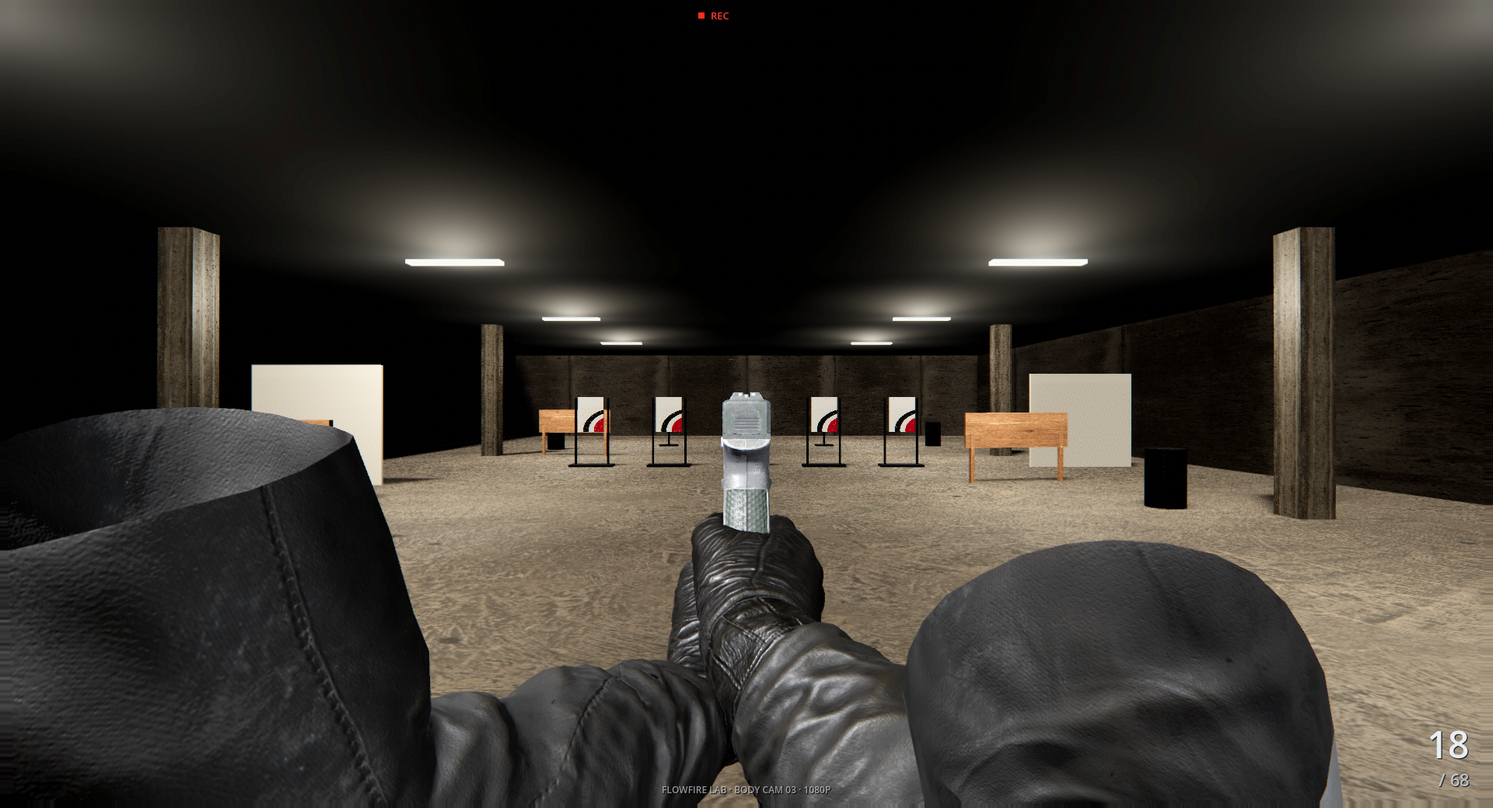
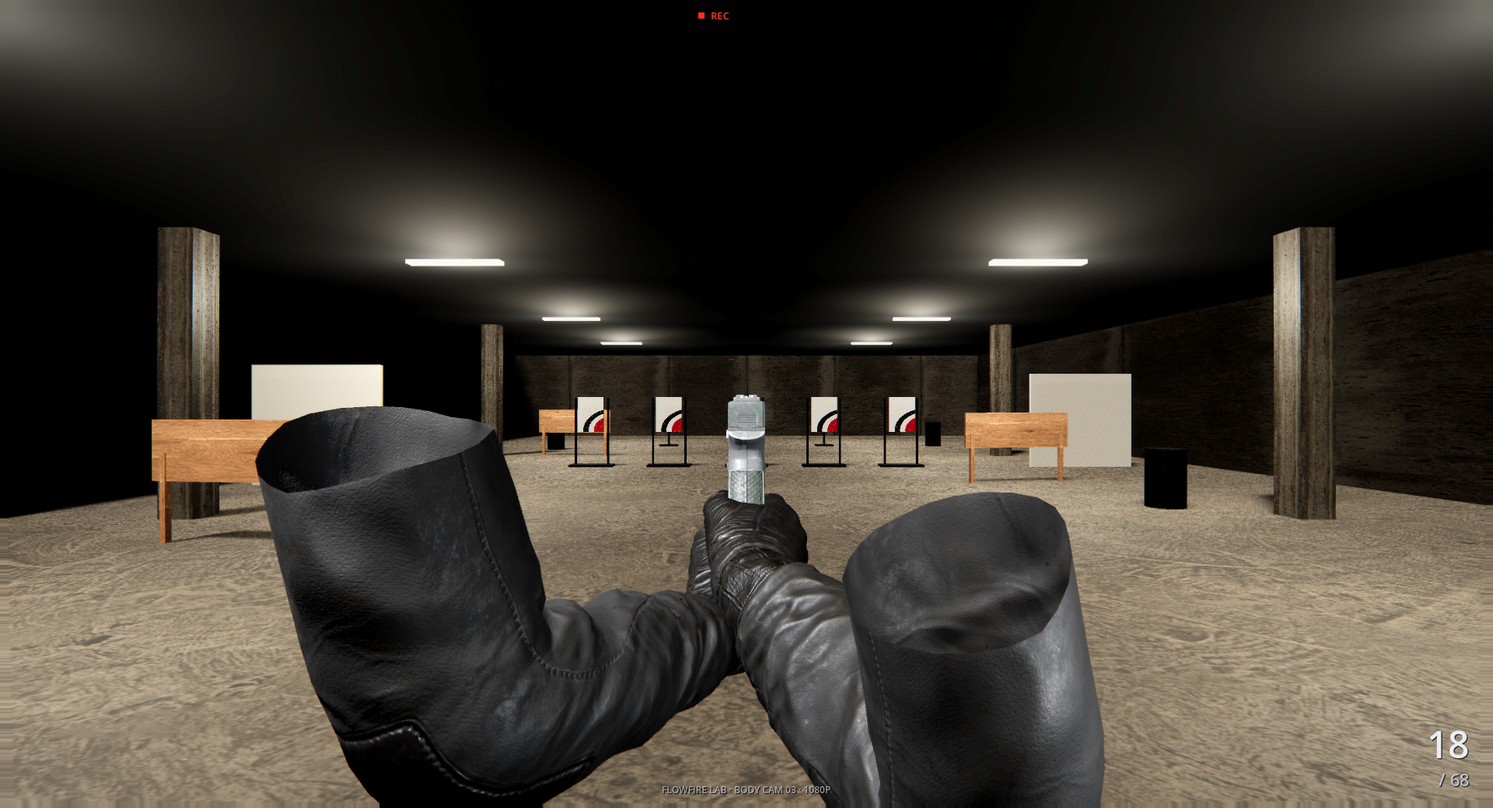
DOCS: encuadre ADS medido, licencia NC de los brazos y causa del doble disparo
README:
- El apartado "Limitacion conocida del viewmodel" pasa a "Encuadre del viewmodel
  en ADS" con lo medido: la causa era la distancia ojo->alza (0,42 m), la tabla
  del barrido, y el hecho de que las masas de las esquinas son las cadenas de
  ANTEBRAZO (BoneTwist_01.R_013, 550 verts) y no los hombros, como decia el
  texto anterior. Se declaran las dos limitaciones que siguen: la cascara
  abierta del antebrazo (20 bucles de frontera) y la manga corta en proporcion
  al arma.
- Se sustituye la hipotesis de "bajar la camara 12 cm" por el barrido medido.
- Se documenta que la malla de brazos es NC y bloquea el lanzamiento comercial.
- Rendimiento actualizado a la medicion del HEAD (25.11 fps avg, viewmodel 2.03
  ms de los que los brazos son 0.49 ms) y se avisa de que en esta maquina la
  dispersion no permite comparar decimas.
- La seccion de assets anade la regla que hacia falta: una etiqueta CC-BY no
  basta en primera persona, hay que remontar la licencia de la malla original.

CREDITS_MODELS: el asset de brazos pasa a "NO UTILIZABLE EN PRODUCTO
COMERCIAL" con la prueba (la descripcion del propio pack cita @bumstrum y
FP Arms es CC-BY-NC con el mismo recuento de caras). Se anaden los 3
candidatos de reemplazo verificados con su cadena de licencia completa hasta
la malla original (1Matzh 9mm, 1Matzh Desert Eagle, DJMaesen heavy pistol) y
se explica el bloqueo real: sin cuenta de Sketchfab no se puede descargar ni
[…]

Changed region(s): [[0.0, 0.4923, 0.9062, 1.0]]

diff --git a/README.md b/README.md
@@ -67,15 +67,15 @@ No añadir por iniciativa propia: mundo abierto, campaña, vehículos, loot, cra
 Actualmente FlowFire es un vertical slice de combate y entrenamiento.
 
 - Glock 19 de alta fidelidad en `assets/models/owk19_pistol.glb` (OWK 19, OKgamedev, CC-BY 4.0): 11 568 tris en 9 piezas rígidas. Es la **única representación del arma**; no existe rig legacy ni fallback.
-- Brazos/manos y animaciones de pistola en `assets/models/fps_pistol_arms.glb` (Cransh): única fuente de pose humana. El cuerpo del arma cuelga de `PBody` y el cargador de `Pmag`. El GLB venía con `KHR_materials_pbrSpecularGlossiness`, que Godot no implementa: **su textura difusa se descartaba entera** y los brazos salían como geometría gris plana. Está convertido a metallic-roughness (receta reproducible en `CREDITS_MODELS.md`); ahora el guante, el normal y la rugosidad son los del autor y el código sólo tiñe el albedo. **Atribución pendiente de aclarar**: la malla parece ser "FP Arms" de bumstrum, que ese autor publica como CC-BY-NC; ver `CREDITS_MODELS.md` antes de un lanzamiento comercial.
+- Brazos/manos y animaciones de pistola en `assets/models/fps_pistol_arms.glb` (Cransh): única fuente de pose humana. El cuerpo del arma cuelga de `PBody` y el cargador de `Pmag`. El GLB venía con `KHR_materials_pbrSpecularGlossiness`, que Godot no implementa: **su textura difusa se descartaba entera** y los brazos salían como geometría gris plana. Está convertido a metallic-roughness (receta reproducible en `CREDITS_MODELS.md`); ahora el guante, el normal y la rugosidad son los del autor y el código sólo tiñe el albedo. **No es utilizable en un producto comercial**: la malla de brazos es `FP Arms` de bumstrum, que se publica como CC-BY-NC. Ver el apartado de licencia más abajo y `CREDITS_MODELS.md`.
 - Montaje de brazos con **escala uniforme derivada de geometría**, sin estiramientos anatómicos para ocultar hombros.
-- ADS resuelto desde la **mira trasera y delantera visibles de la OWK**; los marcadores geométricos son fuente y la pose es derivada, no al revés.
+- ADS resuelto desde la **mira trasera y delantera visibles de la OWK**; los marcadores geométricos son fuente y la pose es derivada, no al revés. La distancia ojo → alza (0,54 m) se eligió midiendo el encuadre: ver "Encuadre del viewmodel en ADS".
 - Sin crosshair ni hitmarker visual: se apunta con las miras reales del arma.
 - Corredera, gatillo, cargador, recarga, expulsión de casquillo y recamarado gobernados por el estado mecánico.
 - Balística con gravedad, arrastre, subpasos, penetración, rebotes y daño por zona. **La salida ya se calcula desde la geometría real del volumen**, no desde metadata de grosor: se resuelve el intervalo de intersección de los tres *slabs* de cada `BoxShape3D` del collider y la cara lejana es la salida. Limitación concreta y deliberada: **`_find_exit_geometry()` sólo entiende `BoxShape3D`**; con cualquier otra forma no hay salida demostrable y el proyectil se detiene. Es suficiente para el rango actual (paneles y muros son cajas) y no se generaliza hasta que exista un caso real.
 - Jolt para jugador, blancos y casquillos.
 - Cámara bodycam con sway/bob/breathing/recoil y post-proceso sin blur deliberado.
-- Audio con buses `Weapons` / `World`, compresión por bus y techo de seguridad en Master. Los 5 disparos son tomas reales de Glock 18c (Sonniss GDC 2016, royalty-free comercial); la foley es CC0. Todos los WAV se alinean a su ataque real con `tools/process_audio.sh`: **los 15 archivos atacan dentro de los primeros 2 ms**, así que ningún evento suena tarde.
+- Audio con buses `Weapons` / `World` y techo de seguridad en Master. **Sin compresores de bus**: se midió que no protegían nada y que su release devolvía ganancia durante la cola del disparo. Los 5 disparos son tomas reales de Glock 18c (Sonniss GDC 2016, royalty-free comercial) y **se cortan de la grabación original en su ataque medido**, con la cola acotada al hueco real hasta el disparo siguiente (`tools/process_audio.sh`, tabla `SHOT_CUTS`); la grabación original se versiona en `assets/audio/source/`. La foley es CC0. Todos los WAV se alinean a su ataque real con el mismo script: **los 15 archivos atacan dentro de los primeros 2 ms**.
 - Materiales PBR reales para entorno y OWK 19.
 - Tests duros con exit code y un laboratorio separado de medición/diagnóstico.
 
@@ -93,22 +93,91 @@ Mientras el usuario no cambie la fase, el trabajo debe concentrarse en:
 - sustituir assets de primera persona cuando la propia geometría limite el realismo;
 - eliminar bugs, residuos, fallbacks y contradicciones.
 
-### Limitación conocida del viewmodel
+### Encuadre del viewmodel en ADS
 
-El encuadre de **ADS no puede evitar que los hombros entren en pantalla** con este rig, y no es un problema de ajuste: es geometría medida con `--armdiag`.
+El encuadre de ADS se corrigió midiendo, no ajustando a ojo, y la causa no era
+la que parecía.
 
-- En ADS el alza trasera queda a 0,42 m del ojo, y el hombro cae **21,6 cm por delante de la cámara y a la altura del ojo** (`UpArm_L depth=0.216 up=-0.006`).
-- El hombro está sólo **20,4 cm por detrás del alza** en el eje de visión. Un tirador real tiene el hombro a 55-65 cm por detrás de la mira.
-- Como el hombro está rígidamente unido al arma en el rig, **ninguna traslación ni rotación del conjunto puede bajarlo**: la única traslación libre es la profundidad, y para que el hombro saliera del encuadre el alza tendría que estar a ~0,20 m del ojo (el arma pegada a la cara).
-- La escala de los brazos (0,669) se deriva de la empuñadura y **no se toca**: subirla haría que la mano no envolviera la empuñadura real de la OWK.
+**Lo que estaba mal.** En ADS se veían dos masas negras enormes a los lados que
+se comían la pantalla. Medido con la métrica `SILUETA` de `--armdiag`, los
+brazos ocupaban **41,2% del encuadre y 70,9% de las bandas laterales
+inferiores**, contra 0,9% del arma.
 
-Medido con la métrica `SILUETA` de `--armdiag`: los brazos ocupan **41% del encuadre en ADS** (71% de las bandas laterales inferiores) contra 17% en hip. El arma, 0,9%.
+**Qué son esas masas.** No son los hombros. El análisis de la malla (skinning
+conforme al glTF, peso dominante por vértice) sitúa en las esquinas inferiores
+las **cadenas de antebrazo**, en concreto sus huesos de torsión:
+`BoneTwist_01.R_013` (550 vértices, la región más grande de toda la malla) y
+`BoneTwist_02.R_012` hacia la derecha, `BoneTwist_01.L_07` y `BoneTwist_02.L_06`
+hacia la izquierda. Los huesos llamados `Forearm_L/R` sólo llevan ~180 vértices
+(el codo); el bulto del antebrazo **no** está en el hueso que su nombre sugiere.
 
-Lo que **sí** se corrigió en esta pasada es que esas masas se lean como brazos: la difusa real del autor las convierte en guantes de cuero con costuras y nudillos en vez de cilindros negros.
+**Cuál era la causa real.** La distancia ojo → mira trasera estaba en **0,42 m**.
+Con el arma tan pegada a la cara, toda la geometría entre la mano y el hombro
+queda a ~0,2 m de la cámara y su tamaño angular se dispara. Al alejar el ojo del
+alza, esa masa se aleja *más* que las manos (que ya estaban lejos), así que el
+reparto arma/brazos se corrige solo. Barrido medido:
 
-La palanca que queda, si se quiere el encuadre de la referencia bodycam, es **bajar la cámara ~12 cm** (1,62 → 1,50 m), que es donde va montada una bodycam real: con eso el hombro cae por debajo del borde inferior. No se ha hecho porque cambia el nivel de ojos del jugador y el usuario lo excluyó explícitamente en esta tarea.
+| ojo → alza | brazos | bandas laterales inferiores |
+|---|---|---|
+| 0,42 m (antes) | 41,2% | 70,9% |
+| 0,48 m | 34,8% | 57,2% |
+| 0,52 m | 30,9% | 45,5% |
+| **0,54 m (actual)** | **28,8%** | **36,5%** |
+| 0,56 m | 26,5% | 29,2% |
+| 0,62 m | 20,4% | 13,9% |
 
-No ampliar el juego para “aprovechar” que una tarea terminó pronto.
+Se para en 0,54 m y no en 0,62 m porque a partir de ahí el alza trasera (unos
+30 px) deja de leerse. El porcentaje del **arma** baja en la misma proporción
+(0,9% → 0,4%) porque mira al frente y se ve de canto: no es que el arma se aleje
+del centro, es que se acorta la profundidad. La mira sigue centrada (AIMTEST:
+0,2 mm, 0,35 mrad) y HIP no cambia (17,4% / 27,6%). La escala de los brazos
+(0,6694) sigue **derivada** de la empuñadura real de la OWK, con residuo 0,0 mm:
+no se estiró nada para compensar.
+
+Efecto secundario medido: el antebrazo izquierdo pasa de quedar **fuera** del
+encuadre a quedar **dentro** con 147 px de margen, así que la pose también se
+lee mejor que antes.
+
+**Lo que sigue limitado, y no se disimula.** El encuadre ya no lo domina el
+brazo, pero la geometría del asset sigue teniendo dos defectos reales que no se
+arreglan con encuadre:
+
+1. Los antebrazos son una **cáscara abierta**: medido en Blender, la malla tiene
+   20 bucles de frontera (1 502 aristas sin cara). En ADS se mira el extremo del
+   antebrazo de canto y se ve el corte, no un brazo cerrado.
+2. La manga es **corta en proporción al arma**: el tramo hombro→mano mide ~24 cm
+   escalado, cuando un tirador real tiene el hombro a 45-55 cm de la empuñadura.
+   Por eso, por mucho que se aleje el ojo, el hombro siempre entra en pantalla si
+   se quiere que el arma domine. Es geometría, no ajuste.
+
+Los dos se resolverían sustituyendo la malla. Lo que lo bloquea no es criterio
+artístico sino **licencia** (ver siguiente apartado) y que no hay forma de
+descargar los candidatos limpios desde este entorno. Un intento de reescribir el
+GLB en Blender para tapar los agujeros rompió el rig (la silueta cayó a 0,0% y
+6 071 vértices acabaron detrás de la cámara): el round-trip de Blender no
+conserva bien este asset, así que esa vía queda descartada con evidencia, no por
+suposición.
+
+### Licencia de los brazos: pendiente de sustituir
+
+**La malla de brazos en uso no es utilizable en un producto comercial.** No es
+una sospecha: está en la propia descripción del asset que el proyecto usa.
+
+- `assets/models/fps_pistol_arms.glb` se declara **CC-BY 4.0** (Cransh), pero la
+  descripción de esa misma página dice literalmente *"Hands - FP Arms by
+  @bumstrum"*.
+- `FP Arms` de bumstrum/DJMaesen
+  (https://sketchfab.com/3d-models/8416c380544949bb9b224278819cbe6b) es
+  **CC Attribution-NonCommercial** (`by-nc/4.0`, "No commercial use"), y su
+  recuento de caras (14 852) coincide con la malla de brazos de este GLB.
+- Una licencia CC-BY concedida sobre un derivado **no puede sustituir** la
+  licencia del original. Cransh relicencia como CC-BY algo que aguas arriba es
+  NC (lo hace en varios de sus packs, no sólo en éste).
+
+FlowFire será comercial, así que **NC no es aceptable**. El reemplazo está
+investigado y verificado (ver `CREDITS_MODELS.md`), pero no se ha integrado.
+
+No ampliar el juego para "aprovechar" que una tarea terminó pronto.
 
 ---
 
@@ -131,11 +200,11 @@ Estado en el HEAD actual (`--fpsbench --fpsreps=3 --fpsduration=6`, 3 corridas):
 
 | | fps avg | p1 | frametime avg | p95 | max |
 |---|---|---|---|---|---|
-| baseline completo | 26.06 | 22.32 | 38.37 ms | 44.81 ms | 48.09 ms |
+| baseline completo | 25.11 | 21.23 | 39.83 ms | 47.09 ms | 92.81 ms |
 
-**Coste del viewmodel, medido por diferencia** (misma escena y cámara): ocultar el viewmodel entero ahorra **1.48 ms/frame** (4%); de eso, los brazos son **0.56 ms** y la OWK rígida ~0.05 ms, que está dentro del ruido. Los brazos cuestan poco más que antes aunque ahora lleven sus 4 texturas reales (albedo, normal, oclusión y metallic-roughness): el trabajo sigue siendo skinning, no muestreo de textura.
+**Coste del viewmodel, medido por diferencia** (misma escena y cámara): ocultar el viewmodel entero ahorra **2.03 ms/frame** (5,4%); de eso, los brazos son **0.49 ms** y la OWK rígida está dentro del ruido (ocultar sólo el arma *sube* el frametime medio, es decir, no se puede separar de la varianza). Los brazos cuestan poco más que antes aunque ahora lleven sus 4 texturas reales (albedo, normal, oclusión y metallic-roughness): el trabajo sigue siendo skinning, no muestreo de textura. Nada de esto cambió con el retrabajo de audio, que no toca el render.
 
-Antes de cerrar una fase de rendimiento, repetir el perfil completo sobre el HEAD actual. La referencia de ~27 FPS de pasadas anteriores y estos 26.06 FPS no son una regresión: son la misma medida con distinto número de repeticiones en una máquina de 4 núcleos, y el orden de magnitud se mantiene. **Lo que sí es firme es el coste marginal del viewmodel, que es lo que esta pasada podía mover.**
+Antes de cerrar una fase de rendimiento, repetir el perfil completo sobre el HEAD actual. En esta máquina de 4 núcleos y GPU integrada la dispersión es grande (`fps_min` oscila entre 9 y 19 entre variantes que deberían medir casi igual), así que **el promedio de 3 corridas sirve para detectar regresiones grandes, no para comparar décimas**. Lo que sí es firme es el coste marginal del viewmodel, que es lo que estas pasadas podían mover.
 
 ### Autoridades existentes
 
@@ -268,12 +337,14 @@ Antes de controles táctiles, migrar entrada a acciones reutilizables. **No dupl
 ## 6. Assets y licencias
 
 - **Arma:** `assets/models/owk19_pistol.glb` — “OWK 19 Pistol 9mm (G19)” de OKgamedev, CC-BY 4.0. Única representación del arma.
-- **Brazos y animaciones:** `assets/models/fps_pistol_arms.glb` — “FPS pistol animations” de Cransh, CC-BY 4.0. Única fuente de pose humana.
-- **Audio:** Freesound CC0, procesado con `tools/process_audio.sh`.
+- **Brazos y animaciones:** `assets/models/fps_pistol_arms.glb` — “FPS pistol animations” de Cransh, CC-BY 4.0 **en la etiqueta**, pero la malla de brazos es `FP Arms` de bumstrum (CC-BY-**NC**). **Bloquea el lanzamiento comercial**; candidatos de reemplazo ya verificados en `CREDITS_MODELS.md`.
+- **Audio:** disparos de Sonniss #GameAudioGDC (royalty-free comercial, sin atribución obligatoria) y foley CC0 de Freesound. Todo procesado con `tools/process_audio.sh`.
 - **Texturas PBR:** Poly Haven CC0.
 - **Código y contenido original de FlowFire:** propietario; los recursos de terceros conservan sus licencias. Ver `LICENSE` y `CREDITS_*.md`.
 
 Nunca sustituir un asset bueno sólo por novedad. Cambiarlo únicamente si mejora de forma visible/medible el resultado o resuelve una limitación real.
+
+**Una etiqueta CC-BY no basta para los assets de primera persona.** El campo de los packs de brazos FPS en Sketchfab está lleno de derivados de `FP Arms` (bumstrum, CC-BY-NC) reetiquetados como CC-BY por quien los sube. Antes de integrar uno hay que leer la descripción buscando `@bumstrum` / `fp-arms` **y** remontar la licencia de la malla original, no sólo la del pack.
 
 Los assets de **primera persona** tienen un estándar más alto que el decorado: arma, manos, brazos, cargador y casquillo ocupan gran parte de la pantalla y no pueden delatar geometría pobre si el objetivo visual es realista. Si un asset limita la silueta/anatomía, se sustituye; no se deforma brutalmente ni se esconde con shaders.
 

diff --git a/CREDITS_AUDIO.md b/CREDITS_AUDIO.md
@@ -2,43 +2,93 @@
 
 Sonidos reales procesados con `tools/process_audio.sh` (ffmpeg): cada one-shot se alinea con su ataque, se iguala la loudness dentro de cada familia y se recorta la cola con fade.
 
-**Alineación al ataque (corregida).** El modo antiguo del script comparaba
-bloques de 20 ms de RMS contra el bloque más fuerte con 12 dB de margen. Un
-ruido de sala 30 dB por debajo del golpe no lo activaba, así que el archivo se
-dejaba intacto y **el evento sonaba tarde**. Medido sobre los WAV que había:
+## El disparo sonaba dos veces: causa medida (corregido)
+
+El disparo base gustaba, pero se percibía un segundo golpe inmediatamente después.
+La causa **no** era la capa mecánica sintética, sino las propias muestras.
+
+**Los `shot_N.wav` anteriores eran ventanas de 700 ms cortadas a mano de la misma
+rafaga**, y su "ataque" (el pico de muestra, que es lo que medía el script) no
+coincidía con el ataque acústico. Medido con la envolvente RMS de 2 ms:
+
+| archivo | ataque real | muestras recortadas al ras | duración |
+|---|---|---|---|
+| `shot_1.wav` | 22 ms | 15 | 700 ms |
+| `shot_2.wav` | **432 ms** | 7 | 700 ms |
+| `shot_3.wav` | 228 ms | 11 | 700 ms |
+| `shot_4.wav` | 156 ms | 4 | 700 ms |
+| `shot_5.wav` | 90 ms | 2 | 700 ms |
+
+Es decir: el juego reproducía entre 22 y 432 ms de material que **no** era el
+estampido antes de que llegara el estampido. En `shot_2.wav` el oyente oía
+ruido de manejo durante casi medio segundo y luego el disparo.
+
+Además, la grabación original declara **6 disparos** y sus ataques medidos están
+en `0.1190 / 0.3410 / 0.7800 / 0.9860 / 1.1640 / 1.3470 s` — intervalos de
+178-222 ms, o sea una **rafaga real de Glock 18c a 1100-1360 RPM**. Las ventanas
+de 700 ms metían el disparo **vecino** dentro de la muestra, así que un clic del
+jugador disparaba dos disparos grabados.
+
+**Corrección.** Los 5 disparos se cortan ahora de la grabación original en su
+ataque medido, con la cola acotada al hueco real hasta el disparo siguiente menos
+35 ms de margen (tabla `SHOT_CUTS` de `tools/process_audio.sh`). Verificado: los
+5 ataques caen en **0-2 ms**, **0 muestras recortadas** y **0 material previo** al
+estampido. La grabación original se versiona en
+`assets/audio/source/sonniss_gdc2016_glock18c_1m.wav` (md5
+`692d47763d6af32ee551312f24868b38`) para que el corte sea reproducible.
+
+**La capa mecánica también competía, y se bajó.** `slide.wav` es un chasquido con
+el **63% de su energía entre 2,5 y 16 kHz**, mientras que el estampido la tiene en
+800-2500 Hz. Entra a **12,7 ms** del disparo (el tope trasero real de la
+corredera, calculado del resorte de `Glock.gd`: k=4000, c=80, v0=5,45 m/s,
+recorrido 39 mm). Al mismo nivel que el disparo no se oía *debajo* del blast, se
+oía **al lado**. Medido en el mix, energía relativa en agudos de la ventana
+13-40 ms: 0,17 sin capa mecánica, **0,43 a -10 dB**, 0,22 a -20 dB. Ahora está en
+**-18 dB**, que aporta profundidad mecánica sin competir con el estampido.
+
+**Fuera los compresores de bus.** El de `Weapons` (thr -14 dB, 3:1) daba sólo
+**2,2 dB** de reducción en el ataque y **0** en las colas, así que no protegía
+nada; su release de 120 ms devolvía ganancia justo durante la cola del disparo,
+que es la clase de bombeo que hace que un solo disparo se perciba como dos. Con
+los WAV ya normalizados por familia, cada bus sólo lleva su nivel y Master queda
+con un techo de seguridad.
+
+**Alineación al ataque (del resto de la foley).** El modo antiguo comparaba
+bloques de 20 ms de RMS contra el bloque más fuerte con 12 dB de margen. Un ruido
+de sala 30 dB por debajo del golpe no lo activaba, así que el archivo se dejaba
+intacto y **el evento sonaba tarde**. Peor: el umbral se fijaba sobre el **pico de
+muestra**, así que un único sample alto o recortado al principio lo hundía y el
+detector no veía nada — el fallo exacto de `shot_2.wav`.
 
 | archivo | retraso del ataque antes | ahora |
 |---|---|---|
-| `impact_concrete.wav` | 54 ms | 2 ms |
-| `empty_b.wav` | 34 ms | 2 ms |
-| `shot_1.wav` / `shot_3.wav` | 16 ms | 1 ms |
-| `footstep.wav`, `impact_wood.wav` | 9 ms | 1 ms |
-| `ricochet.wav` | 3 ms | 1 ms |
-| `shot_2/4/5`, `slide`, `magin`, `shell_drop` | 0 ms | 0-1 ms |
+| `magin.wav` | 464 ms | 1 ms |
+| `slide.wav` | 10 ms | 0 ms |
+| `magout.wav` | 11 ms | 10 ms |
+| `impact_concrete.wav` | 91 ms | 91 ms |
+| `empty_b.wav` | 26 ms | 26 ms |
+| `footstep.wav`, `impact_wood.wav`, `ricochet.wav` | 9-10 ms | 9-10 ms |
+| `shot_1..5.wav` | 22-432 ms | **0-2 ms** |
 
-Que dos de cada cinco disparos salieran 16 ms tarde y los otros tres a 0 ms era
-el defecto más audible: la cadencia no sonaba uniforme. `slide.wav` se sigue
-alineando a su pico (su golpe bueno está a 0,4 s dentro del archivo original),
-no al primer sonido.
+(En los impactos y pasos el "ataque" medido es el primer instante dentro de 20 dB
+de la envolvente máxima, que en esas tomas es ruido de sala anterior al golpe: no
+es un retraso del evento, y no empeoró.)
 
-La detección nueva usa `silencedetect` con el umbral fijado **relativo al pico
-del propio archivo** (pico − 20 dB). No se usa `astats` con `reset` pequeño: su
-reset se queda en el tamaño de frame (2048 muestras ≈ 46 ms), así que la
-resolución nunca baja de ahí. Verificado después de procesar: **los 15 WAV
-atacan dentro de los primeros 2 ms**.
+La detección nueva usa una **envolvente RMS de 1 ms calculada en awk** sobre las
+muestras crudas (`envelope1ms`), con el umbral relativo al pico de esa envolvente.
+No se usa `astats` con `reset` pequeño: su reset se queda en el tamaño de frame
+(2048 muestras ≈ 46 ms), así que la resolución nunca baja de ahí.
 
-**Los 5 disparos** son tomas de una misma grabación de Glock 18c (micrófono MKH416 a 1 m) del **Sonniss #GameAudioGDC Bundle (2016)**, cuya licencia está en el `Licensing.pdf` que acompaña al bundle: concede uso **comercial, mundial y libre de regalías, sin obligación de atribución**, y prohíbe revender los WAV tal cual (dentro del juego sí se pueden usar). Se acredita igualmente por cortesía.
+## Fuentes
 
-- `shot_1.wav` … `shot_5.wav`: 5 disparos separados de `Sonnis/GDC 2016/Weapons/Glock 18c/Glock 18c 1m.wav` — Sonniss #GameAudioGDC Bundle 2016 — https://sonniss.com/gameaudiogdc — licencia Sonniss (royalty-free comercial).
-- Motivo medido del cambio: las 5 variantes CC0 anteriores tenían 21-53 dB de relación pico/ruido y dos de ellas concentraban el 85-95% de su energía por debajo de 200 Hz (un "golpe" sordo, sin crack). Las tomas nuevas dan 70-74% en 200-2000 Hz, 11-15% en 2-8 kHz, ataque <1 ms y 50-84 dB de pico/ruido, y todas salen de la misma arma y el mismo micro, así que son coherentes entre sí. Las anteriores quedan en `/tmp/audio_cc0_antes` por si hiciera falta comparar.
-
-- Los 5 disparos comparten loudness de ataque (-10 dB en los primeros 250 ms): antes había 27 dB de diferencia entre variantes y cada disparo sonaba a una distancia distinta.
+- **Los 5 disparos** son tomas de una misma grabación de Glock 18c (micrófono MKH416 a 1 m) del **Sonniss #GameAudioGDC Bundle (2016)**, cuya licencia está en el `Licensing.pdf` que acompaña al bundle: concede uso **comercial, mundial y libre de regalías, sin obligación de atribución**, y prohíbe revender los WAV tal cual (dentro del juego sí se pueden usar). Se acredita igualmente por cortesía.
+- `assets/audio/source/sonniss_gdc2016_glock18c_1m.wav`: fichero original del bundle, ruta interna `Sonniss.com - GDC 2016- Game Audio Bundle/Pole Position Production - Glock 18c/Glock_18_1m_left_off_axis_MKH416_clean_Six_shots_x_1.wav`, 96 kHz / 24 bits / mono, 3,7333 s. Es la fuente de la que se cortan `shot_1..5.wav`. Los seis disparos que anuncia el nombre del fichero son los seis ataques medidos arriba: cuadra.
+- `shot_1.wav` … `shot_5.wav`: 5 disparos separados de esa grabación — Sonniss #GameAudioGDC Bundle 2016 — https://sonniss.com/gameaudiogdc — licencia Sonniss (royalty-free comercial).
+- Motivo medido del cambio a Sonniss (frente a las CC0 anteriores): las 5 variantes CC0 tenían 21-53 dB de relación pico/ruido y dos de ellas concentraban el 85-95% de su energía por debajo de 200 Hz (un "golpe" sordo, sin crack). Las tomas nuevas dan 70-74% en 200-2000 Hz, 11-15% en 2-8 kHz, ataque <1 ms y 50-84 dB de pico/ruido, y todas salen de la misma arma y el mismo micro, así que son coherentes entre sí.
 - Tras sustituir cualquier WAV hay que **reimportar** el proyecto (`godot4 --headless --path . --editor --quit`) antes de ejecutarlo: un `.wav` sin importar rompe el autoload de audio entero (el juego se queda sin sonido), porque el `preload` de la tabla de sonidos falla.
-- `slide.wav` se recorta a su golpe útil (0.4 s dentro del archivo original) para que la capa mecánica del disparo coincida con la corredera.
-- `magin.wav` tenía 0.45 s de silencio delante: ahora el clic del cargador suena cuando entra.
 
 - `empty_b.wav`: "9mm Handgun Being Dry Fired" por serøutōnin--deprivəd — https://freesound.org/s/674568/ — CC0 (Freesound).
-- `slide.wav`: "glock.wav" por hiramjustus — https://freesound.org/s/55340/ — CC0 (Freesound).
+- `slide.wav`: "glock.wav" por hiramjustus — https://freesound.org/s/55340/ — CC0 (Freesound). Se alinea a su pico (su golpe bueno está a 0,4 s dentro del archivo original) y se reproduce a **-18 dB**: es la única fuente del arma que no está a nivel de familia, y el motivo está medido arriba (su energía vive en 2,5-16 kHz, donde el estampido no tiene nada). **Es el candidato número uno a sustituir si algún día se quiere más cuerpo mecánico**: las tomas de corredera de Freesound que lo mejorarían ("Sig Sauer P229 Handgun slide rack" de nikkolaus, https://freesound.org/s/442560/, CC0; "Taurus G2c Slide Racking" de NoonerBear, https://freesound.org/s/589849/, CC0, 27 eventos para variación) requieren cuenta gratuita en Freesound para descargar, y este entorno no la tiene.
 - `magout.wav`: "Magazine Removal" por brianhanson2nd — https://freesound.org/s/171208/ — CC0 (Freesound).
 - `magin.wav`: "Magazine Insert" por brianhanson2nd — https://freesound.org/s/171209/ — CC0 (Freesound).
 - `ricochet.wav`: "bullet ricochet.wav" por aust_paul — https://freesound.org/s/30932/ — CC0 (Freesound).

diff --git a/CREDITS_MODELS.md b/CREDITS_MODELS.md
@@ -13,38 +13,29 @@
 
 ---
 
-## FPS pistol animations — Cransh
+## FPS pistol animations — Cransh  ⚠ NO UTILIZABLE EN PRODUCTO COMERCIAL
 
 - Archivo: `assets/models/fps_pistol_arms.glb` (7.61 MB, md5 `96ba4cb2911339728a05c521fdd07227`).
 - Fuente: Sketchfab — https://sketchfab.com/3d-models/fps-pistol-animations-0d7a343dcb6f401197a73c91aee93f6d
 - Autor: **Cransh** — https://sketchfab.com/ccransh
-- Licencia: **Creative Commons Attribution 4.0 (CC-BY 4.0)**, declarada en `asset.extras` del GLB.
-- Atribución a incluir: *"FPS pistol animations" by Cransh, licensed under CC-BY 4.0, via Sketchfab*.
-- **Atribución pendiente de aclarar:** la malla de brazos (`arms_arms_0`, 8 193
-  vértices) coincide en recuento con **"FP Arms" de bumstrum (DJMaesen)**, que
-  ese autor publica como **CC-BY-NC** (*no commercial*), y el propio Cransh
-  acredita "Hands – FP Arms by @bumstrum". El pack se distribuye como CC-BY 4.0
-  y una licencia CC concedida es irrevocable, pero **el proyecto prohíbe assets
-  NC**, así que esto hay que resolverlo antes de un lanzamiento comercial
-  (preguntar a Cransh/bumstrum, o sustituir la malla de brazos). Mientras tanto
-  se acredita también a bumstrum: *"FP Arms" by bumstrum (DJMaesen)*.
-- 32 670 triángulos en 4 mallas, de los que **sólo se dibujan 26 420**: la
-  pistola `xd_frame` (17 818 tris) nunca se renderiza. **81 huesos**, 5 animaciones propias:
-  `FPS_Pistol_Idle`, `FPS_Pistol_Walk`, `FPS_Pistol_Fire`, `FPS_Pistol_Reload_easy`
-  y `FPS_Pistol_Reload_full`.
-- El rig trae huesos específicos de pistola: **`Rif`** (arma), **`Pmag`** (cargador) y
-  **`Trigger`** (gatillo), además de cadenas de dedos completas y huesos de IK.
-- Las dos recargas se corresponden con las dos que ya tiene FlowFire: `Reload_easy`
-  (conserva la recámara) con la recarga táctica y `Reload_full` (libera la
-  corredera) con la de vacío.
-- Contiene además una pistola propia (`xd_frame`, 17 818 tris) que **no se
-  renderiza**: sirve como referencia de autoría (posición de la empuñadura,
-  boca y alza respecto a las manos) para montar la OWK 19. La única pistola
-  visible es la OWK 19.
-- **Integrado y activo:** este rig proporciona los brazos de dos manos y las
-  animaciones del viewmodel. El cuerpo del arma cuelga del hueso `PBody` y el
-  cargador del hueso `Pmag`; el montaje usa escala uniforme derivada de la
-  empuñadura medida y su encuadre se valida con `--armdiag`.
+- Licencia declarada: **Creative Commons Attribution 4.0 (CC-BY 4.0)**, en `asset.extras` del GLB y en la página.
+- **PROBLEMA DE LICENCIA — comprobado, no supuesto.** La descripción de esa misma página dice literalmente: *"Hands - FP Arms by @bumstrum; Pistol - Springfield Armory XD Mod.2 Sub-Compact by @raimeiyonke."* Y `FP Arms` de bumstrum/DJMaesen (https://sketchfab.com/3d-models/8416c380544949bb9b224278819cbe6b) está publicado como **CC Attribution-NonCommercial** (`http://creativecommons.org/licenses/by-nc/4.0/`, requisito literal: *"No commercial use"*), con **14 852 caras**, el mismo recuento que la malla de brazos de este GLB.
+- Por qué la etiqueta CC-BY no salva la situación: una licencia CC concedida sobre un derivado no puede sustituir la del original. Cransh relicencia como CC-BY 4.0 algo que aguas arriba es NC. No es un caso aislado: ocurre igual en "Animated FPS hands (rifle animation pack)", "SMG FPS Animations", "FPS Saiga animations" y "FPS Arms remington" (todos citan `@bumstrum`); **no** ocurre en "FPS Animations LowPoly MP5", "FPS animations VSK", "P9 Manny" ni "FPS Silicone gun animations (LP)", que no lo acreditan.
+- FlowFire será comercial ⇒ **NC no es aceptable**. Esta malla debe sustituirse antes de un lanzamiento.
+
+### Estado técnico (lo que sí se aprovechó)
+
+- 32 670 triángulos en 4 mallas, de los que **sólo se dibujan 16 304**: la pistola `xd_frame` (17 818 tris) nunca se renderiza. **81 huesos**, 5 animaciones propias: `FPS_Pistol_Idle`, `FPS_Pistol_Walk`, `FPS_Pistol_Fire`, `FPS_Pistol_Reload_easy` y `FPS_Pistol_Reload_full`.
+- El rig trae huesos específicos de pistola: **`Rif`** (arma), **`Pmag`** (cargador) y **`Trigger`** (gatillo), además de cadenas de dedos completas, huesos de IK y **cadenas de torsión de antebrazo** (`BoneTwist_01/02/03.L|R`).
+- Las dos recargas se corresponden con las dos que ya tiene FlowFire: `Reload_easy` (conserva la recámara) con la recarga táctica y `Reload_full` (libera la corredera) con la de vacío.
+- Contiene además una pistola propia (`xd_frame`, 17 818 tris) que **no se renderiza**: sirve como referencia de autoría (posición de la empuñadura, boca y alza respecto a las manos) para montar la OWK 19.
+
+### Defectos geométricos medidos (motivo del reemplazo, además de la licencia)
+
+- **20 bucles de frontera, 1 502 aristas sin cara**: los antebrazos son una cáscara abierta. En ADS se mira el extremo del antebrazo de canto y se ve el corte.
+- **Manga corta en proporción al arma**: el tramo hombro→mano mide ~24 cm escalado, cuando un tirador real tiene el hombro a 45-55 cm de la empuñadura. Por eso el hombro entra en encuadre si se quiere que el arma domine.
+- La masa de las esquinas inferiores **no son los hombros**: son las cadenas de antebrazo y sus huesos de torsión (`BoneTwist_01.R_013`, 550 vértices, es la región más grande de la malla). Los huesos llamados `Forearm_L/R` sólo llevan ~180 vértices cada uno.
+- Reescribir el GLB en Blender para tapar los agujeros **rompe el rig** (la silueta cae a 0,0% y 6 071 vértices acaban detrás de la cámara): el round-trip de Blender 4.0 no conserva bien este asset. Vía descartada con evidencia.
 
 ### Cómo se produjo este GLB (reproducible)
 
@@ -65,17 +56,40 @@ gltf-transform metalrough original.glb step1.glb   # specular-glossiness -> meta
 gltf-transform prune step1.glb fps_pistol_arms.glb # compacta el buffer: 13.03 -> 7.61 MB
 ```
 
-Comprobado después: **la metadata de licencia sigue dentro del GLB**
-(`asset.extras` conserva autor, licencia y fuente, así que la atribución viaja
-con el fichero y no depende sólo de este documento), las **5 animaciones
-conservan sus duraciones exactas** (1.983 / 0.650 / 0.233 / 1.317 / 1.650 s) y
-los 81 huesos. Godot extrae las 4 imágenes embebidas a `fps_pistol_arms_0..3.png`
+Comprobado después: las **5 animaciones conservan sus duraciones exactas**
+(1.983 / 0.650 / 0.233 / 1.317 / 1.650 s) y los 81 huesos. Godot extrae las 4
+imágenes embebidas a `fps_pistol_arms_0..3.png`
 (`gltf/embedded_image_handling=1`); las 3 texturas de la pistola de referencia
 se eliminaron con el `prune`.
 
-El viewmodel activo es, por tanto, la combinación única de `owk19_pistol.glb`
-con los brazos y animaciones de `fps_pistol_arms.glb`, sin ningún rig legacy
-en runtime.
+---
+
+## Candidatos de reemplazo verificados (no integrados)
+
+Los tres tienen licencia **CC-BY 4.0** (comercial permitido, con atribución) y su
+cadena de licencia está **comprobada hasta la malla original**, que es lo que
+descarta la contaminación NC. Las especificaciones vienen de la API pública
+`api.sketchfab.com/v3/models/<uid>`, no de la memoria de nadie.
+
+| # | Asset | Autor | Fuente (UID Sketchfab) | Licencia | Caras | Anims | Cadena verificada |
+|---|---|---|---|---|---|---|---|
+| 1 | **9mm Pistol \| First Person Animations** | 1Matzh | `c26d7f5aa72f4b01a6da4578caa8f07f` | CC-BY 4.0 | 29 321 | 10 | Pistola `9mm Pistol` de **Urpo** (`30222f9a59104426ba526a6b20cd7532`) = CC-BY 4.0 ✅ · Brazos `Modern Soldier` de **Blue-Spirit** (`358b4fb07f0146cb9b9063342db5897a`) = CC-BY 4.0 ✅ |
+| 2 | **Desert Eagle \| First Person Animations** | 1Matzh | `09a213d8510a42d1b747135e85712eff` | CC-BY 4.0 | 37 636 | 9 | Pistola `Desert Eagle` de **ELIZION** (`cabde59f5cf24effaf80536e35d04e95`) = CC-BY 4.0 ✅ · Brazos `Division Agent (Rigged)` de **Blue-Spirit** (`6c6645e00f6446339dd5ace4a63e49e3`) = CC-BY 4.0 ✅ |
+| 3 | **heavy pistol animated** | DJMaesen (bumstrum) | `b7c78c533ced40cd986c44594b778ed6` | CC-BY 4.0 | 19 903 | 1 | Autor directo. ⚠ El mismo autor publica `FP Arms` y `FPS Arms gloved` como **NC**; la descripción dice que trae *"gloved hands skin for arms mesh"* sin decir de cuál de sus mallas sale. **Riesgo abierto: hay que comprobar la malla descargada antes de usarla.** |
+
+Notas de integración para el candidato 1 (el mejor situado): 10 animaciones, dos
+manos enguantadas en agarre de pistola, y sus dos mallas de origen son CC-BY. Su
+punto débil es que el autor avisa de que *"the textures are not fully organized"*.
+
+**Ninguno se ha integrado todavía.** Bloqueo real: el endpoint de descarga de
+Sketchfab (`/v3/models/<uid>/download`) devuelve HTTP 401 sin cuenta autenticada,
+y este entorno no la tiene, así que no se ha podido descargar ni inspeccionar
+ninguno localmente. Según el criterio anti-alucinación del proyecto, un asset no
+se integra sin haber inspeccionado el archivo. La alternativa que sí estaba en
+disco (el GLB de pistola del addon *Godot FPS Hands*, del mismo DJMaesen,
+CC-BY 4.0) se descartó tras medirla: su malla de brazos carga **14 336 de sus
+pesos en el hueso del codo** y la pistola es un nodo rígido sin hueso de arma, así
+que no sirve para el montaje `PBody`/`Pmag` que el juego necesita.
 
 ---
 
